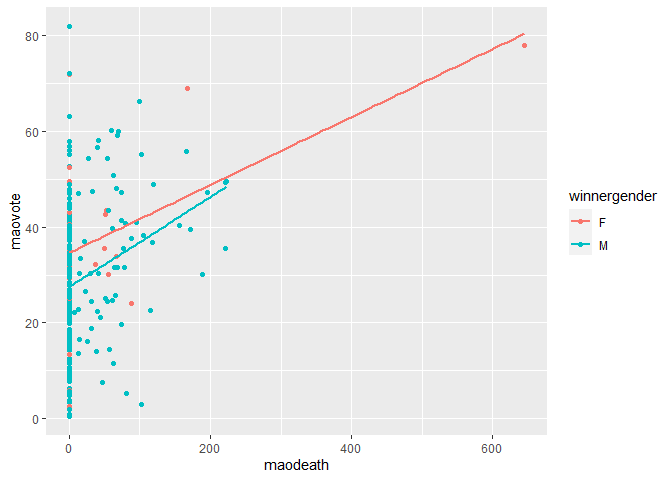
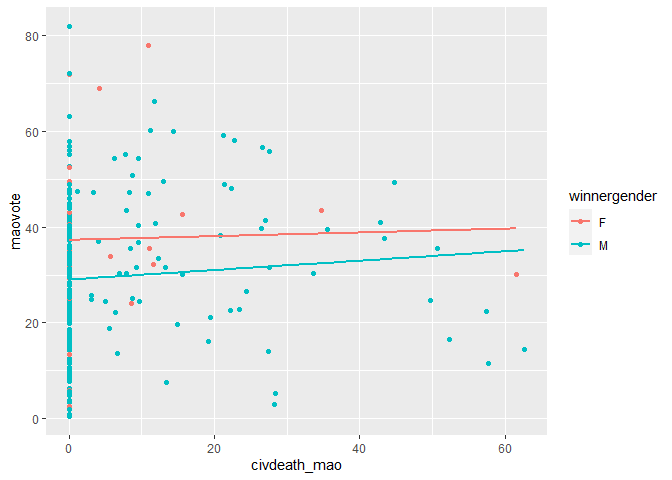
Added more plots and paragraphs.

diff --git a/README.md b/README.md
@@ -110,7 +110,65 @@ ggplot(df, aes(maovote, candidate_avgage, colour = winnergender)) +
 
 ![](README_files/figure-gfm/unnamed-chunk-6-1.png)<!-- -->
 
-Now, moving onto regressions that involve conflict statistics.
+Now, moving onto regressions that involve conflict statistics. My
+study’s main hypothesis argued that there should be a negative
+association between the level of atrocities the Maoists committed and
+their electoral performance, and a positive association between the
+casualty rate inflicted on government forces and Maoist electoral
+performance.
+
+## Gender in the Nepalese Civil War
+
+A topic I did not adequately touch on in my thesis was the the prominent
+role played by women cadre and fighters in the Maoist movement. Let’s
+examine some trends of violence and Maoist electoral performance through
+the lens of the gender of the winning candidates. A general trend across
+all of the predictor variables was the inherently stronger support for
+the CPN(M) in the constituencies won by women.
+
+In this first chart, we can see that the few constituencies with female
+winning candidates generally had greater Maoist support, but that Maoist
+vote shares in these constituencies increased to a lesser degree than in
+constituencies with male winners.
+
+``` r
+ggplot(df, aes(civdeath_mao, maovote, colour = winnergender)) + 
+  geom_point() + 
+  geom_smooth(method=lm, se=FALSE)
+```
+
+![](README_files/figure-gfm/unnamed-chunk-7-1.png)<!-- -->
+
+By contrast, when studying the effect of civilian deaths caused by
+government forces on Maoist electoral performance, the differences by
+gender of the winning candidate are far more drastic.
+
+``` r
+ggplot(df, aes(civdeath_gov, maovote, colour = winnergender)) + 
+  geom_point() + 
+  geom_smooth(method=lm, se=FALSE)
+```
+
+![](README_files/figure-gfm/unnamed-chunk-8-1.png)<!-- -->
+
+We can see that the Maoist vote share did markedly increase along with
+the death rate of government forces. In addition to the generally higher
+Maoist vote shares in constituencies won by women, it is once again
+noticeable that the rebel vote share increased by more in these
+electoral districts relative to the male ones.
+
+``` r
+ggplot(df, aes(govtdeath, maovote, colour = winnergender)) + 
+  geom_point() + 
+  geom_smooth(method=lm, se=FALSE)
+```
+
+![](README_files/figure-gfm/unnamed-chunk-9-1.png)<!-- -->
+
+Here is the relationship between rebel deaths and rebel vote share in
+the 2008 elections. In this case, the slope of the regression line for
+constituencies with male winners is steeper than the regression for the
+few constituencies where women were elected
 
 ``` r
 ggplot(df, aes(maodeath, maovote, colour = winnergender)) + 
@@ -118,4 +176,21 @@ ggplot(df, aes(maodeath, maovote, colour = winnergender)) +
   geom_smooth(method=lm, se=FALSE)
 ```
 
-![](README_files/figure-gfm/unnamed-chunk-7-1.png)<!-- -->
+![](README_files/figure-gfm/unnamed-chunk-10-1.png)<!-- -->
+
+Finally, an examination of turnout and Maoist support. It is noted by
+election observers like the Carter Center, that the Maoists engaged in
+intimidation and harassment in the leadup to the polls, but that the
+election itself took place in reasonably tranquil conditions. Here, we
+can see that regardless of gender, the Maoists performed better in
+electoral districts where fewer eligible voters turned out. Once again,
+the general effect is even more pronounced in constituencies where women
+were victorious.
+
+``` r
+ggplot(df, aes(turnout, maovote, colour = winnergender)) + 
+  geom_point() + 
+  geom_smooth(method=lm, se=FALSE)
+```
+
+![](README_files/figure-gfm/unnamed-chunk-11-1.png)<!-- -->
